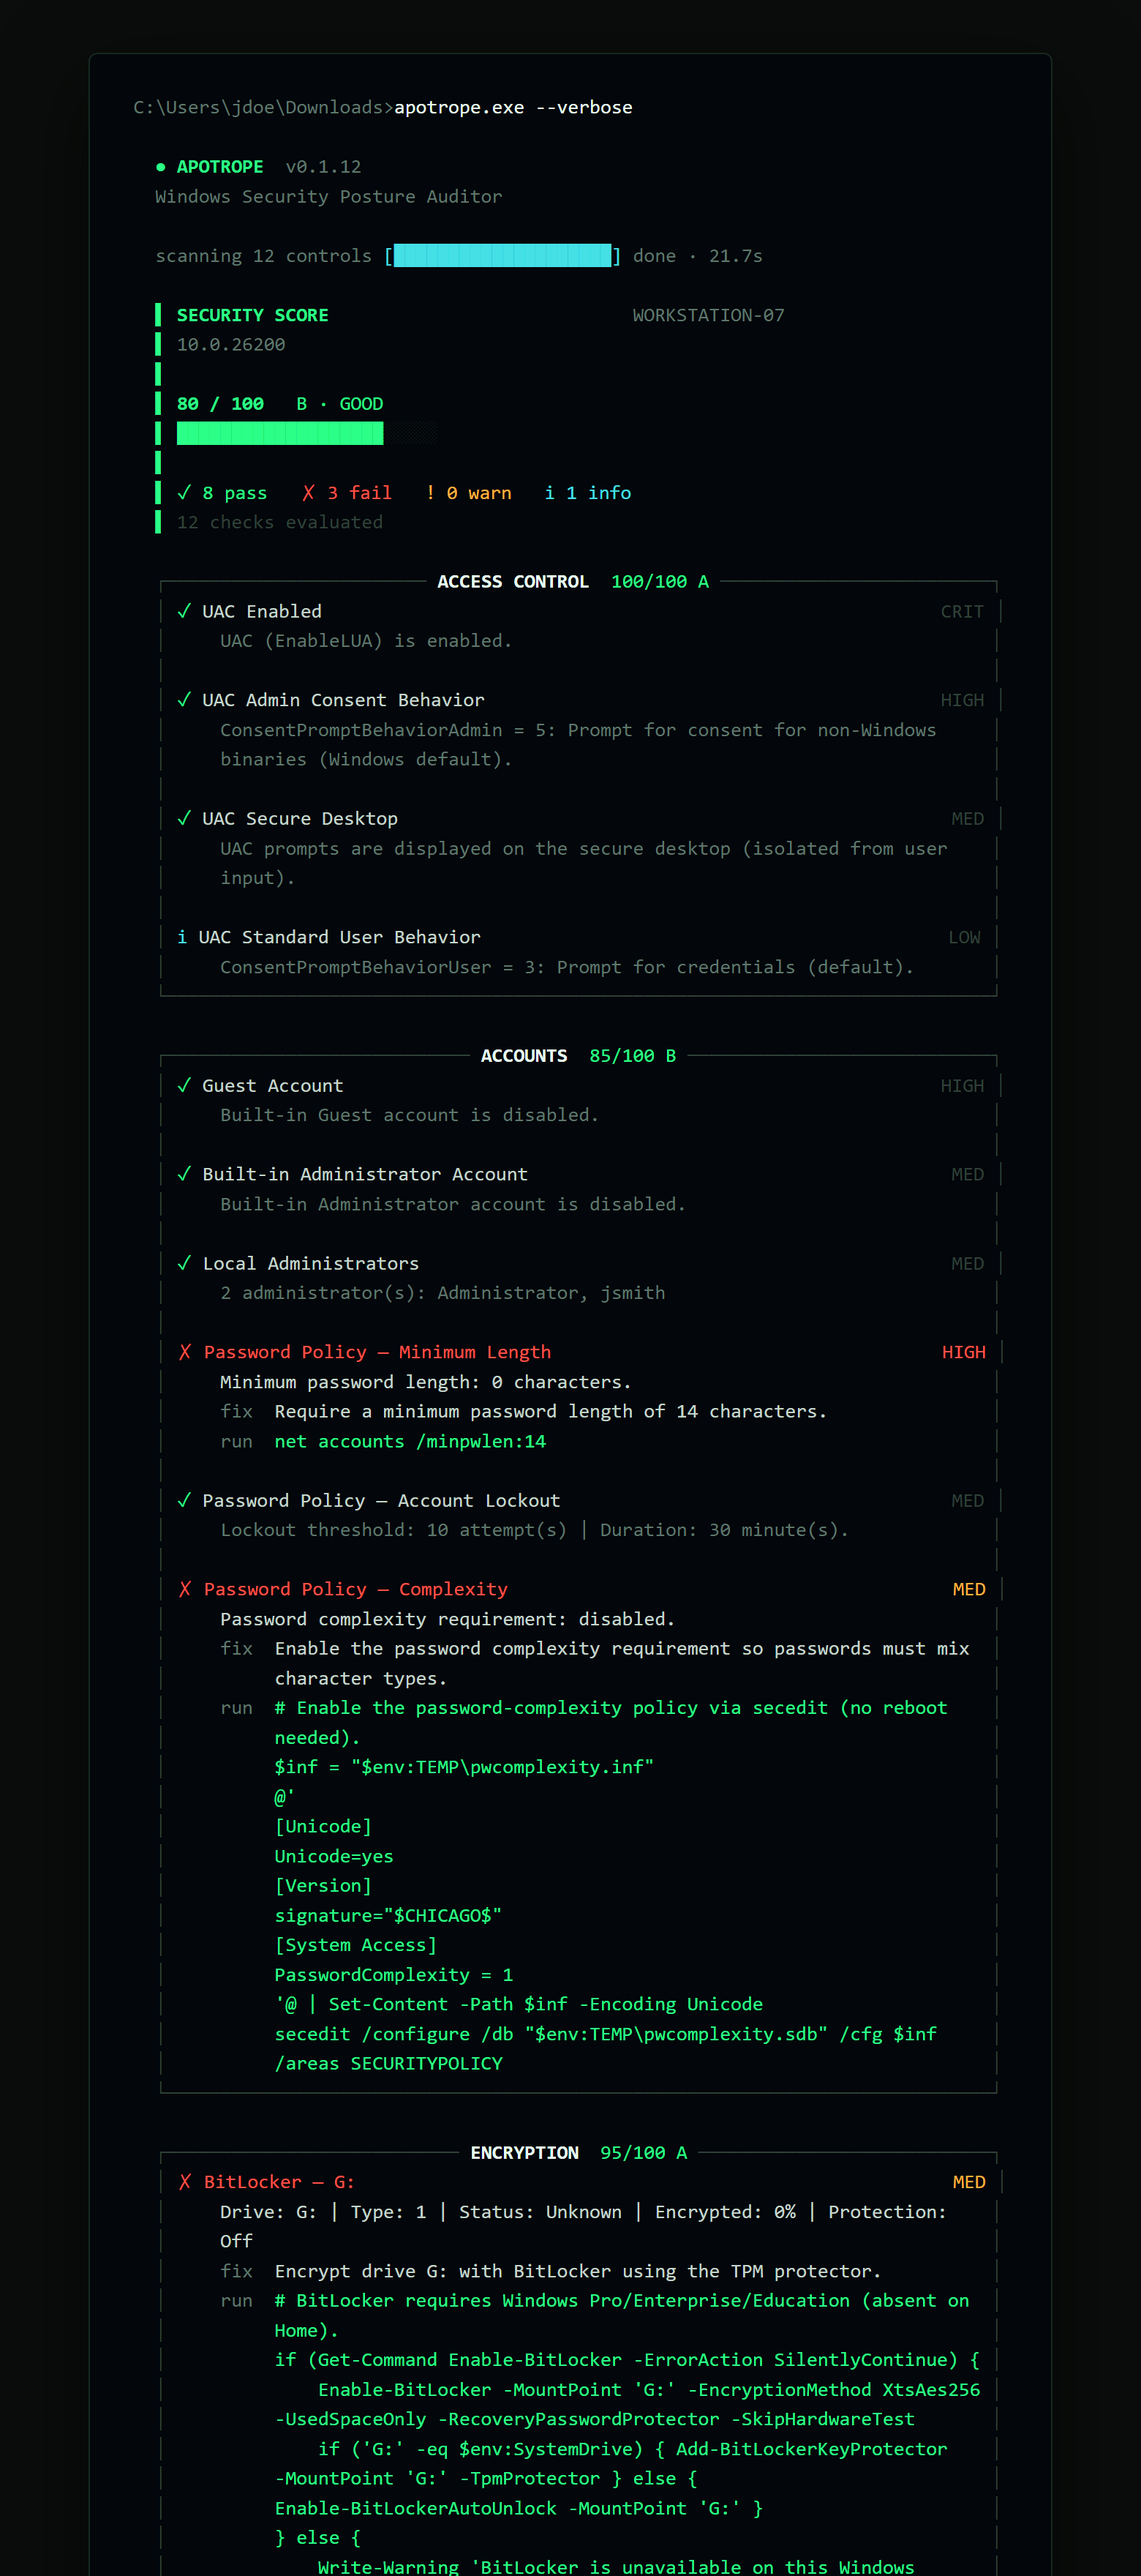
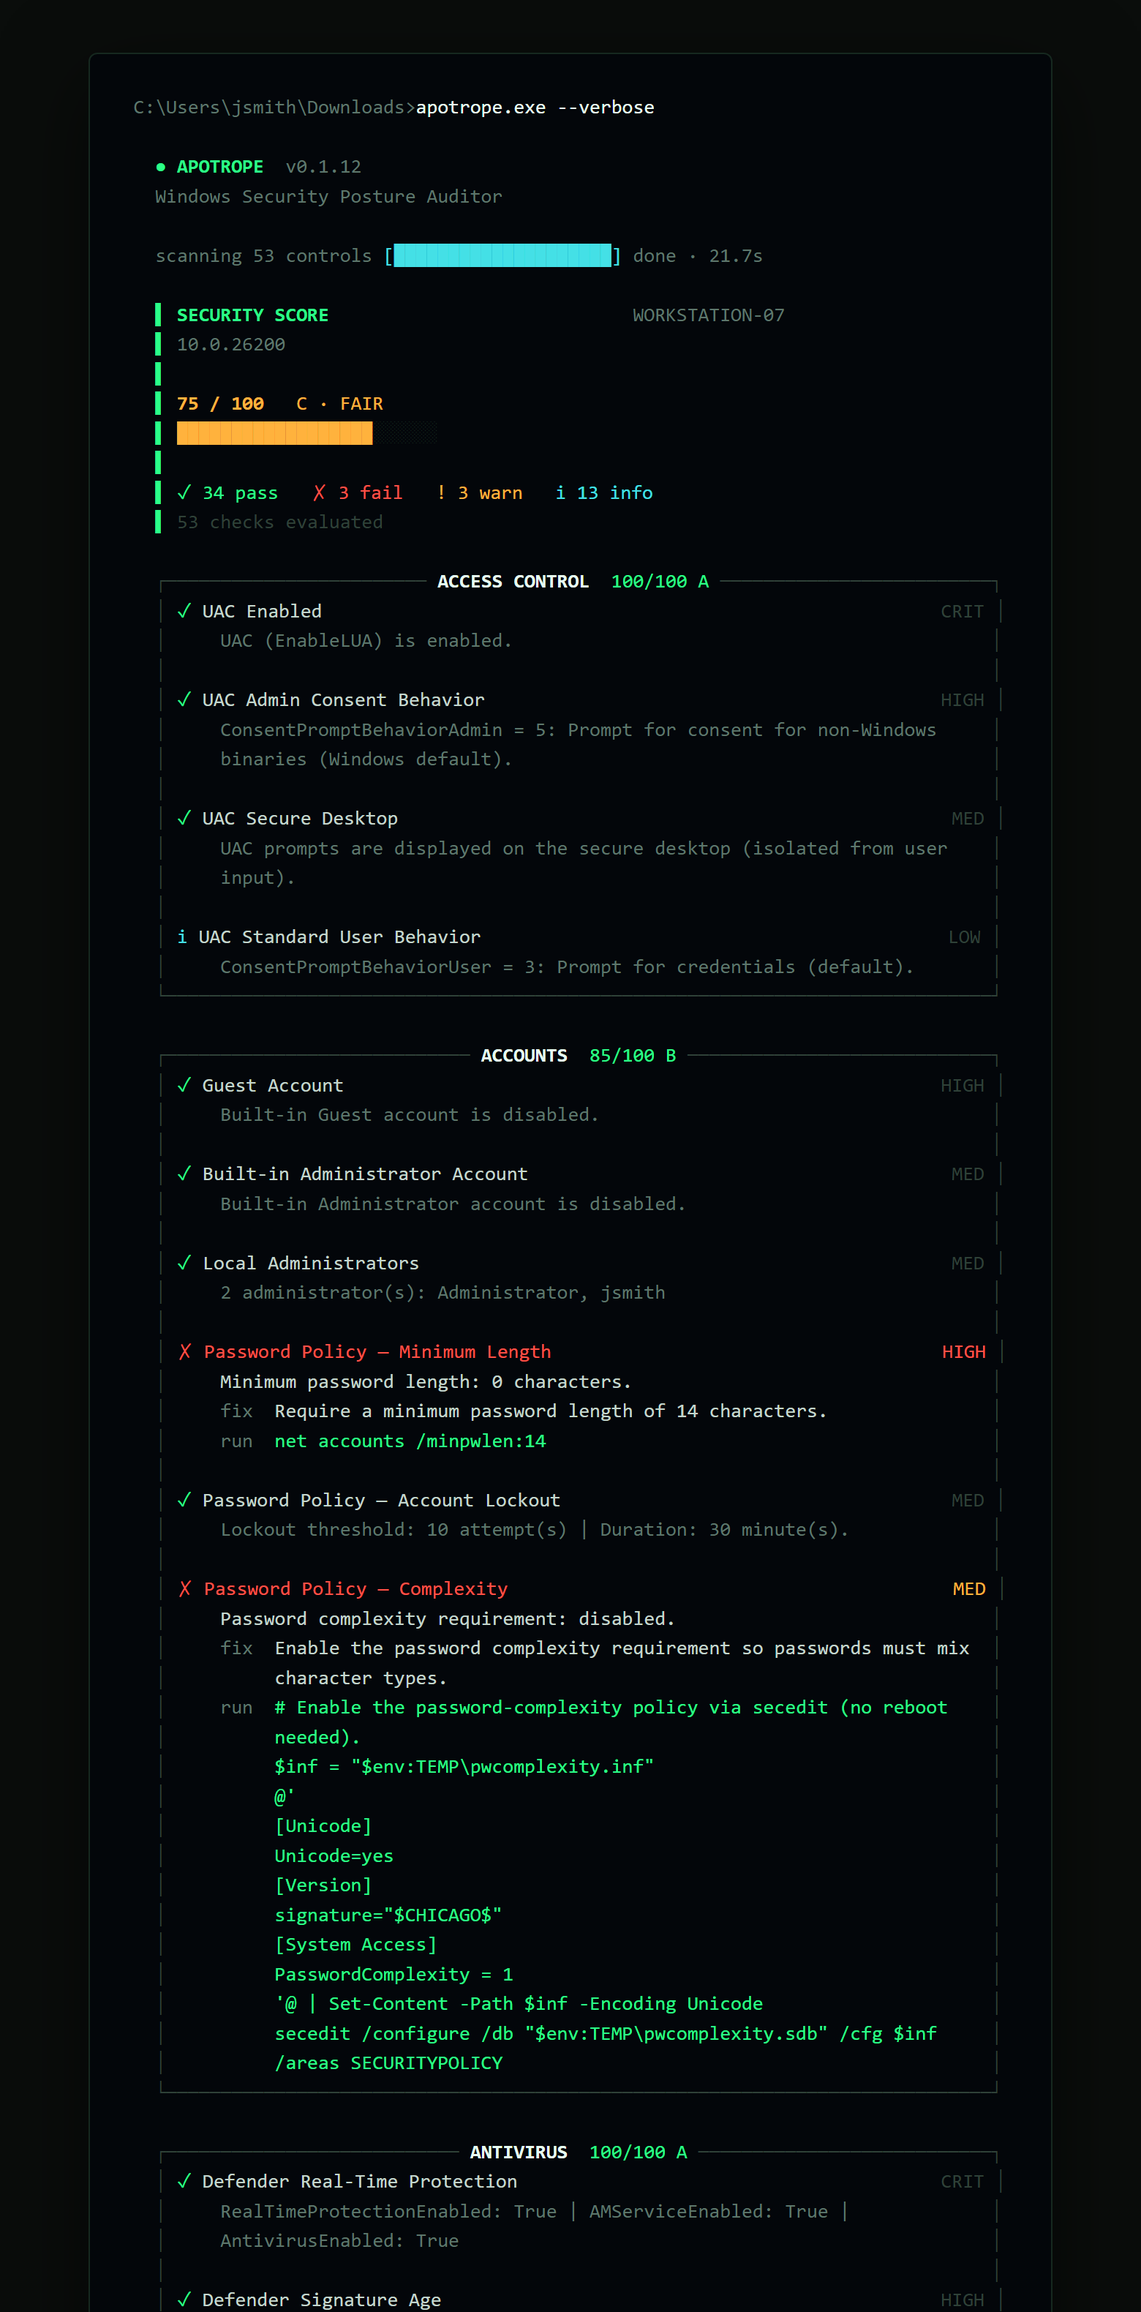
fix(readme): unify screenshot persona and score
Both terminal screenshots now use one identity — user jsmith on host WORKSTATION-07
(matching the docs sample reports) — and both show the same full-scan score, 75/100 C.
The verbose capture is the same full scan in --verbose mode (was scoped to three
categories, which scored the subset at 80/100). gen_screenshots.py's persona constants
updated to jsmith / WORKSTATION-07 so future regenerations stay consistent.

diff --git a/gen_screenshots.py b/gen_screenshots.py
@@ -25,9 +25,9 @@ from apotrope.reporter import Reporter, _text, _MUTED, _CYAN, _BRIGHT
 from apotrope.scanner import Scanner
 from apotrope.utils import is_admin
 
-HOSTNAME = "WORKSTATION-01"
-USERNAME = "jdoe"
-PROMPT = r"C:\Users\jdoe\Downloads>"
+HOSTNAME = "WORKSTATION-07"
+USERNAME = "jsmith"
+PROMPT = r"C:\Users\jsmith\Downloads>"
 
 # Mock palette: page #0a0d0b, terminal panel #03060a, default text #c4d6cd.
 THEME = TerminalTheme(
